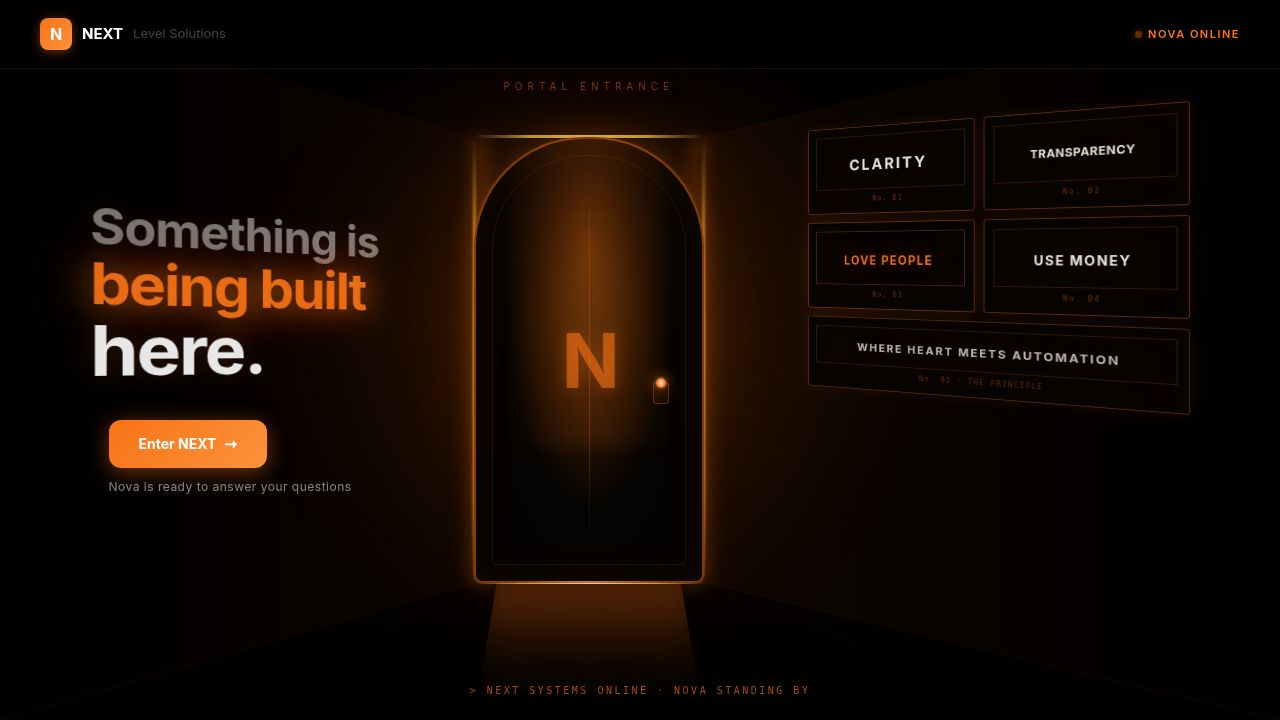
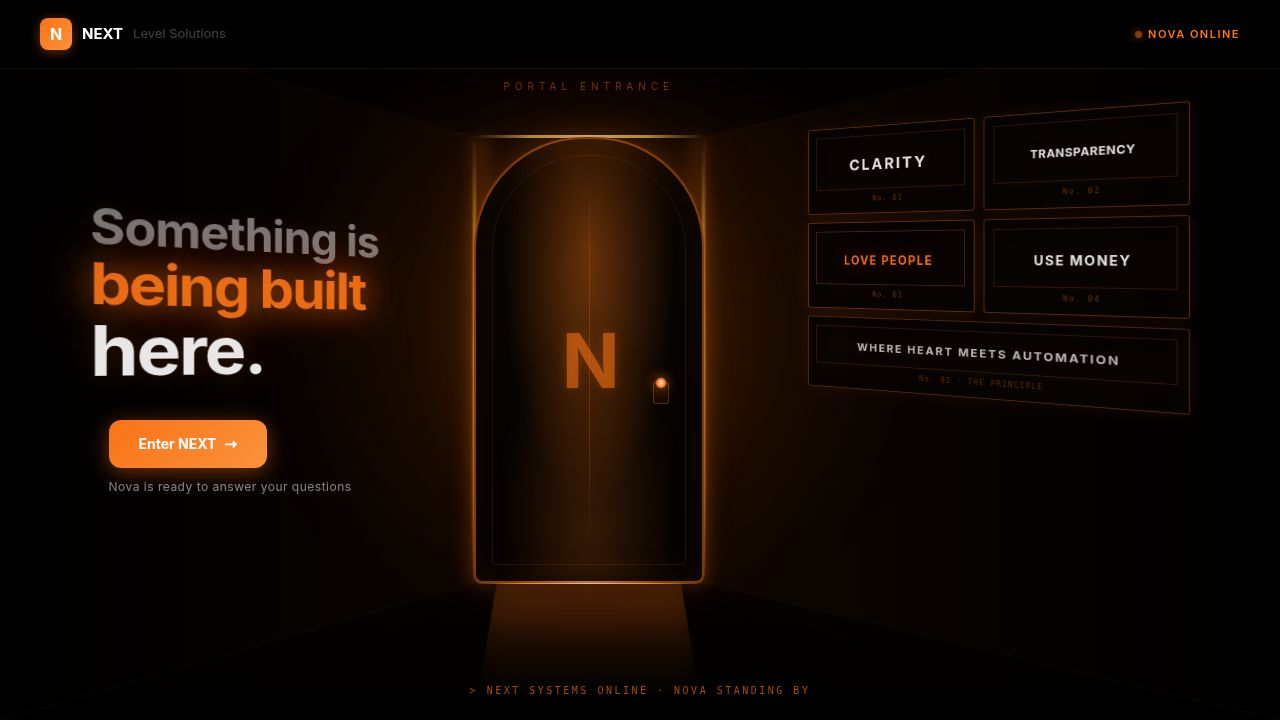
Remove client-side authentication checks from the back office interface
Removes the `useAdminAuth` hook, related state management, and UI components from `BackOffice.tsx`, relying on server-side middleware for authentication.

Replit-Commit-Author: Agent
Replit-Commit-Session-Id: aa0f79c1-93da-4682-86b1-aac1bb92df01
Replit-Commit-Checkpoint-Type: full_checkpoint
Replit-Commit-Event-Id: 0cb8e88c-ba27-4651-affd-547b0a67cafb
Replit-Commit-Screenshot-Url: https://storage.googleapis.com/screenshot-production-us-central1/07538dbc-8d00-418c-84c4-2b9b1a221f57/aa0f79c1-93da-4682-86b1-aac1bb92df01/u7myAB9
Replit-Helium-Checkpoint-Created: true

Changed region(s): [[0.4062, 0.6111, 0.5, 0.825]]

diff --git a/artifacts/portal/src/pages/BackOffice.tsx b/artifacts/portal/src/pages/BackOffice.tsx
@@ -9,25 +9,7 @@ interface Message { role: "user" | "assistant"; content: string; }
 interface PromptVersion { id: number; agentId: string; content: string; active: boolean; createdAt: string; }
 interface AgentStatus { agentId: string; lastActive: string | null; conversationCount: number; hasCustomPrompt: boolean; state: string; }
 
-type AuthState = { status: "loading" } | { status: "unauthenticated" } | { status: "not-admin" } | { status: "admin" };
-
-function useAdminAuth(): AuthState {
-  const [state, setState] = useState<AuthState>({ status: "loading" });
-  useEffect(() => {
-    fetch("/api/auth/user", { credentials: "include" })
-      .then(r => r.json())
-      .then(d => {
-        if (!d?.user) setState({ status: "unauthenticated" });
-        else if (d.user.isAdmin === true) setState({ status: "admin" });
-        else setState({ status: "not-admin" });
-      })
-      .catch(() => setState({ status: "unauthenticated" }));
-  }, []);
-  return state;
-}
-
 export default function BackOffice({ onBack }: { onBack: () => void }) {
-  const authState = useAdminAuth();
   const [tab, setTab] = useState<"chat" | "prompts" | "status">("chat");
   const [selectedAgent, setSelectedAgent] = useState("Atlas");
   const [messages, setMessages] = useState<Message[]>([]);
@@ -52,19 +34,17 @@ export default function BackOffice({ onBack }: { onBack: () => void }) {
     bottomRef.current?.scrollIntoView({ behavior: "smooth" });
   }, [messages]);
 
-  const isAdmin = authState.status === "admin";
+  useEffect(() => {
+    if (tab === "chat") loadConversation(selectedAgent);
+  }, [selectedAgent]);
 
   useEffect(() => {
-    if (isAdmin && tab === "chat") loadConversation(selectedAgent);
-  }, [selectedAgent, isAdmin]);
+    if (tab === "prompts") loadPrompts(selectedAgent);
+  }, [selectedAgent, tab]);
 
   useEffect(() => {
-    if (isAdmin && tab === "prompts") loadPrompts(selectedAgent);
-  }, [selectedAgent, tab, isAdmin]);
-
-  useEffect(() => {
-    if (isAdmin && tab === "status") loadStatuses();
-  }, [tab, isAdmin]);
+    if (tab === "status") loadStatuses();
+  }, [tab]);
 
   async function loadConversation(agentId: string) {
     try {
@@ -201,40 +181,6 @@ export default function BackOffice({ onBack }: { onBack: () => void }) {
     } finally {
       setBroadcasting(false);
     }
-  }
-
-  if (authState.status === "loading") {
-    return (
-      <div style={{ width: "100vw", height: "100vh", background: "#050507", display: "flex", alignItems: "center", justifyContent: "center", color: OR(0.5), fontFamily: "'Inter',sans-serif", fontSize: 13, letterSpacing: 2 }}>
-        AUTHENTICATING...
-      </div>
-    );
-  }
-
-  if (authState.status === "unauthenticated") {
-    return (
-      <div style={{ width: "100vw", height: "100vh", background: "#050507", display: "flex", flexDirection: "column", alignItems: "center", justifyContent: "center", fontFamily: "'Inter',sans-serif", gap: 16 }}>
-        <div style={{ color: O, fontSize: 28 }}>⬡</div>
-        <div style={{ color: "rgba(255,255,255,0.7)", fontSize: 15, fontWeight: 600 }}>NEXT HQ</div>
-        <div style={{ color: "rgba(255,255,255,0.35)", fontSize: 12, letterSpacing: 1, marginBottom: 8 }}>Sign in to access Mission Control</div>
-        <a href="/api/login?returnTo=/portal/" style={{
-          background: `linear-gradient(135deg,${O},#ea580c)`, border: "none", borderRadius: 8,
-          color: "#fff", padding: "10px 28px", cursor: "pointer", fontSize: 13, fontWeight: 600,
-          textDecoration: "none", letterSpacing: 0.5,
-        }}>Sign In →</a>
-        <button onClick={onBack} style={{ background: "transparent", border: "none", color: OR(0.35), padding: "6px 12px", cursor: "pointer", fontSize: 12, marginTop: 4 }}>← Back</button>
-      </div>
-    );
-  }
-
-  if (authState.status === "not-admin") {
-    return (
-      <div style={{ width: "100vw", height: "100vh", background: "#050507", display: "flex", flexDirection: "column", alignItems: "center", justifyContent: "center", fontFamily: "'Inter',sans-serif" }}>
-        <div style={{ color: "#ef4444", fontSize: 32, marginBottom: 12 }}>⛔</div>
-        <div style={{ color: "rgba(255,255,255,0.6)", fontSize: 14, letterSpacing: 1.5, marginBottom: 24 }}>ACCESS DENIED</div>
-        <button onClick={onBack} style={{ background: "transparent", border: `1px solid ${OR(0.3)}`, color: OR(0.7), padding: "8px 20px", borderRadius: 6, cursor: "pointer", fontSize: 12, letterSpacing: 1 }}>← Back</button>
-      </div>
-    );
   }
 
   return (